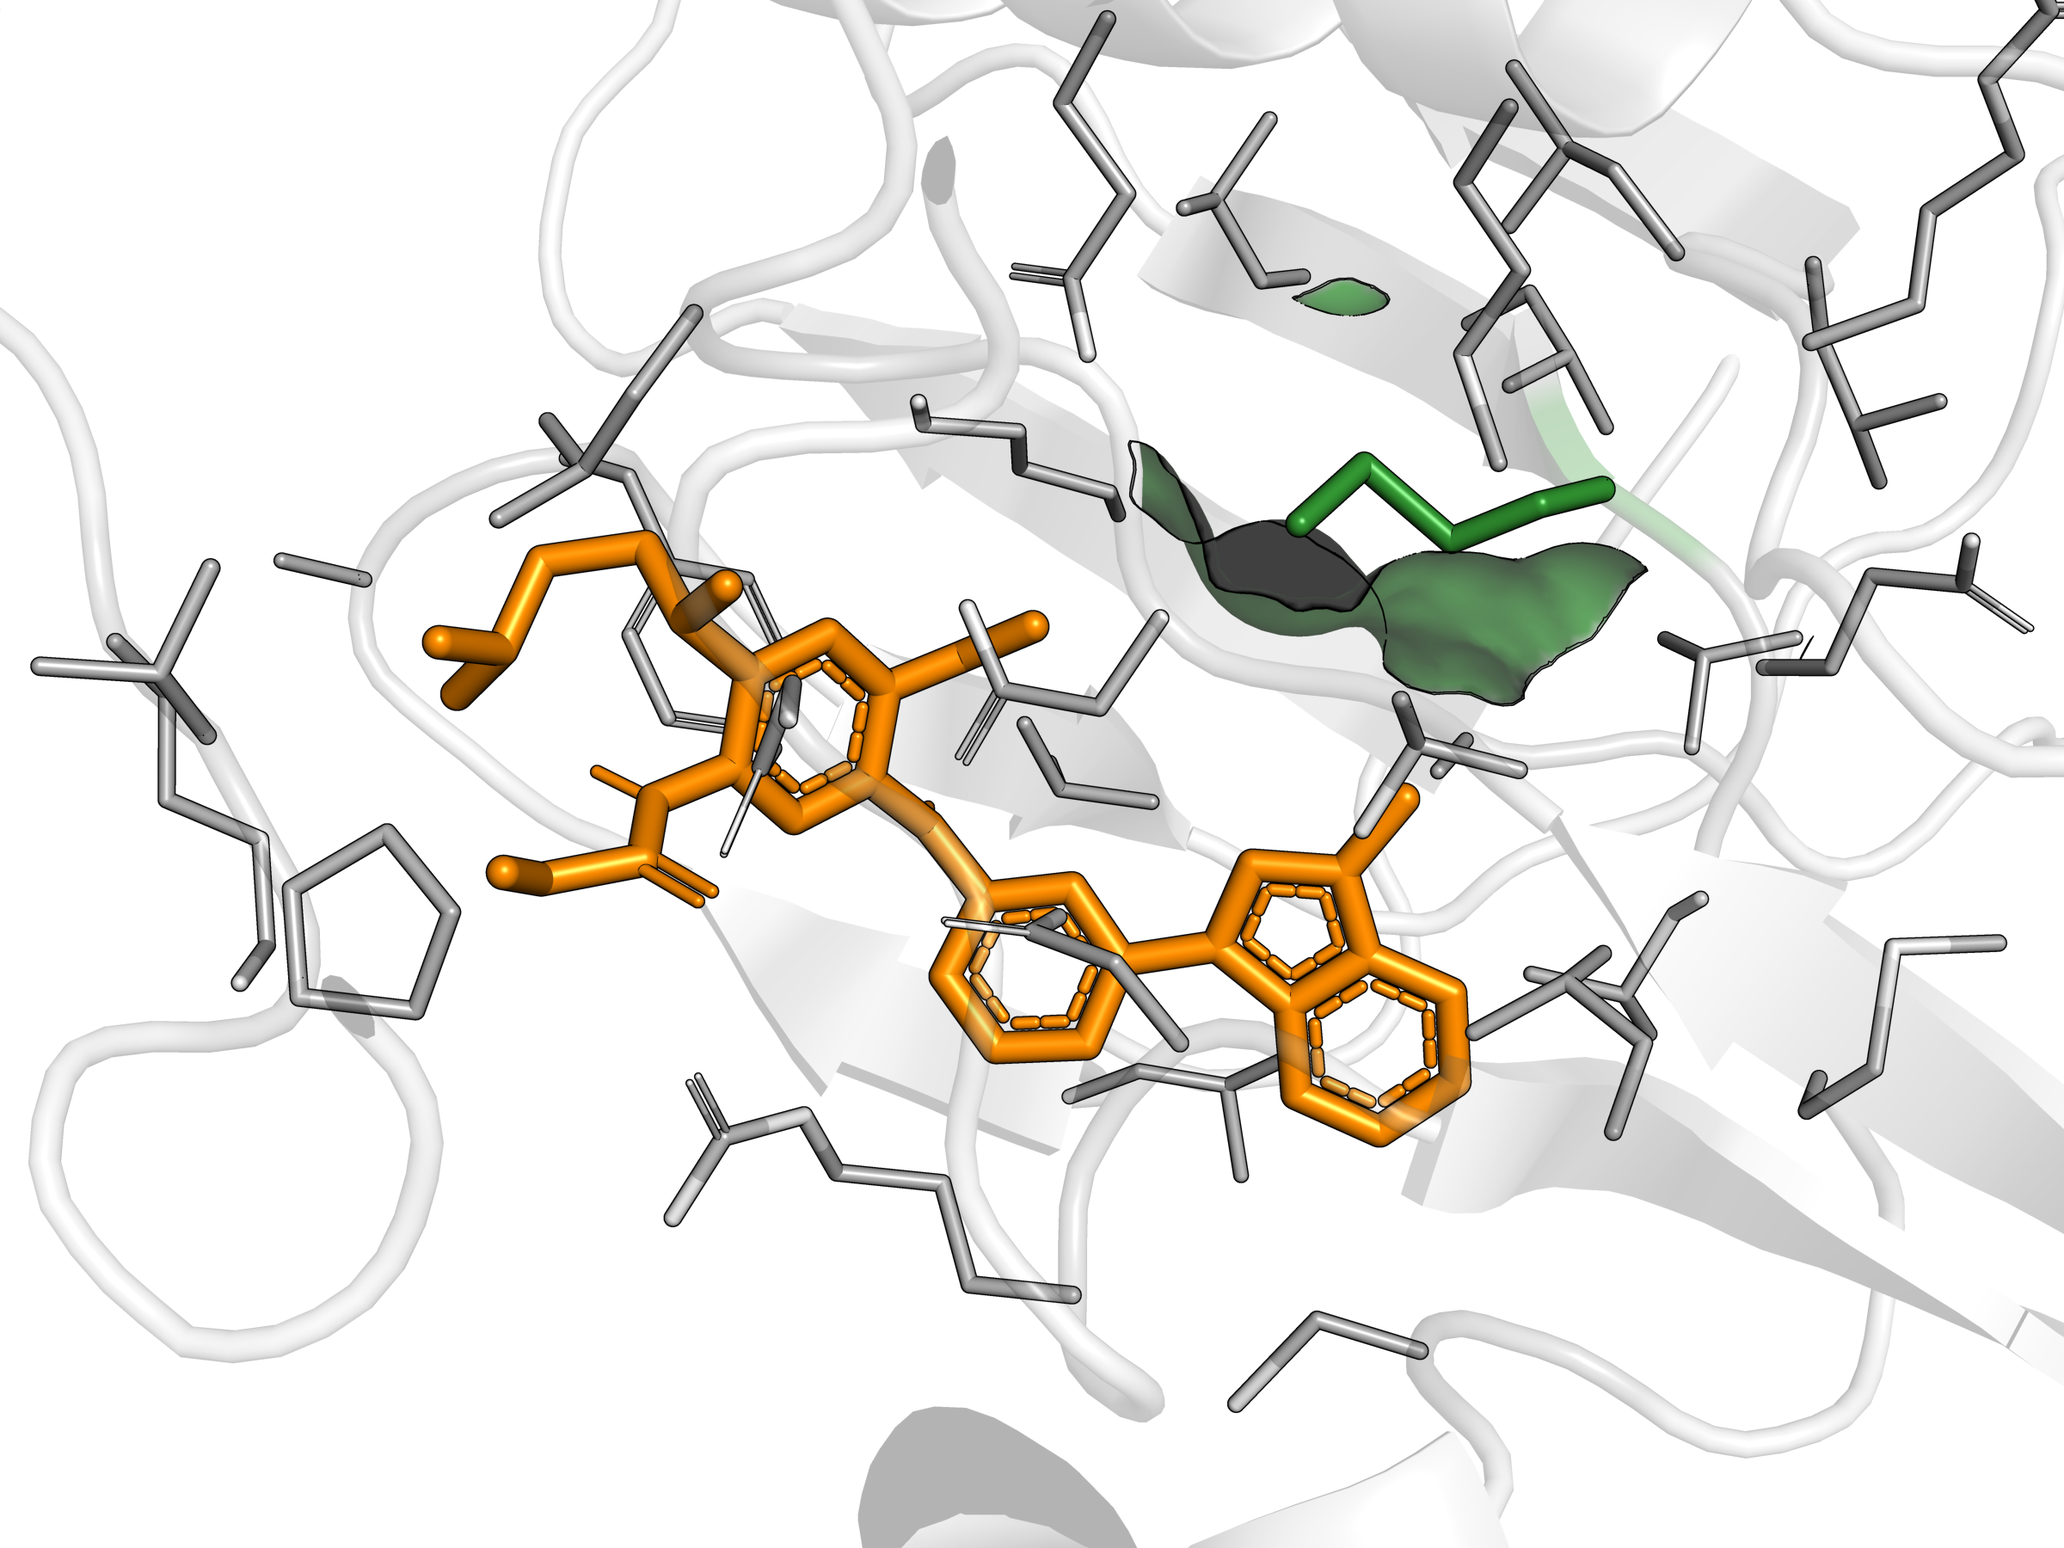
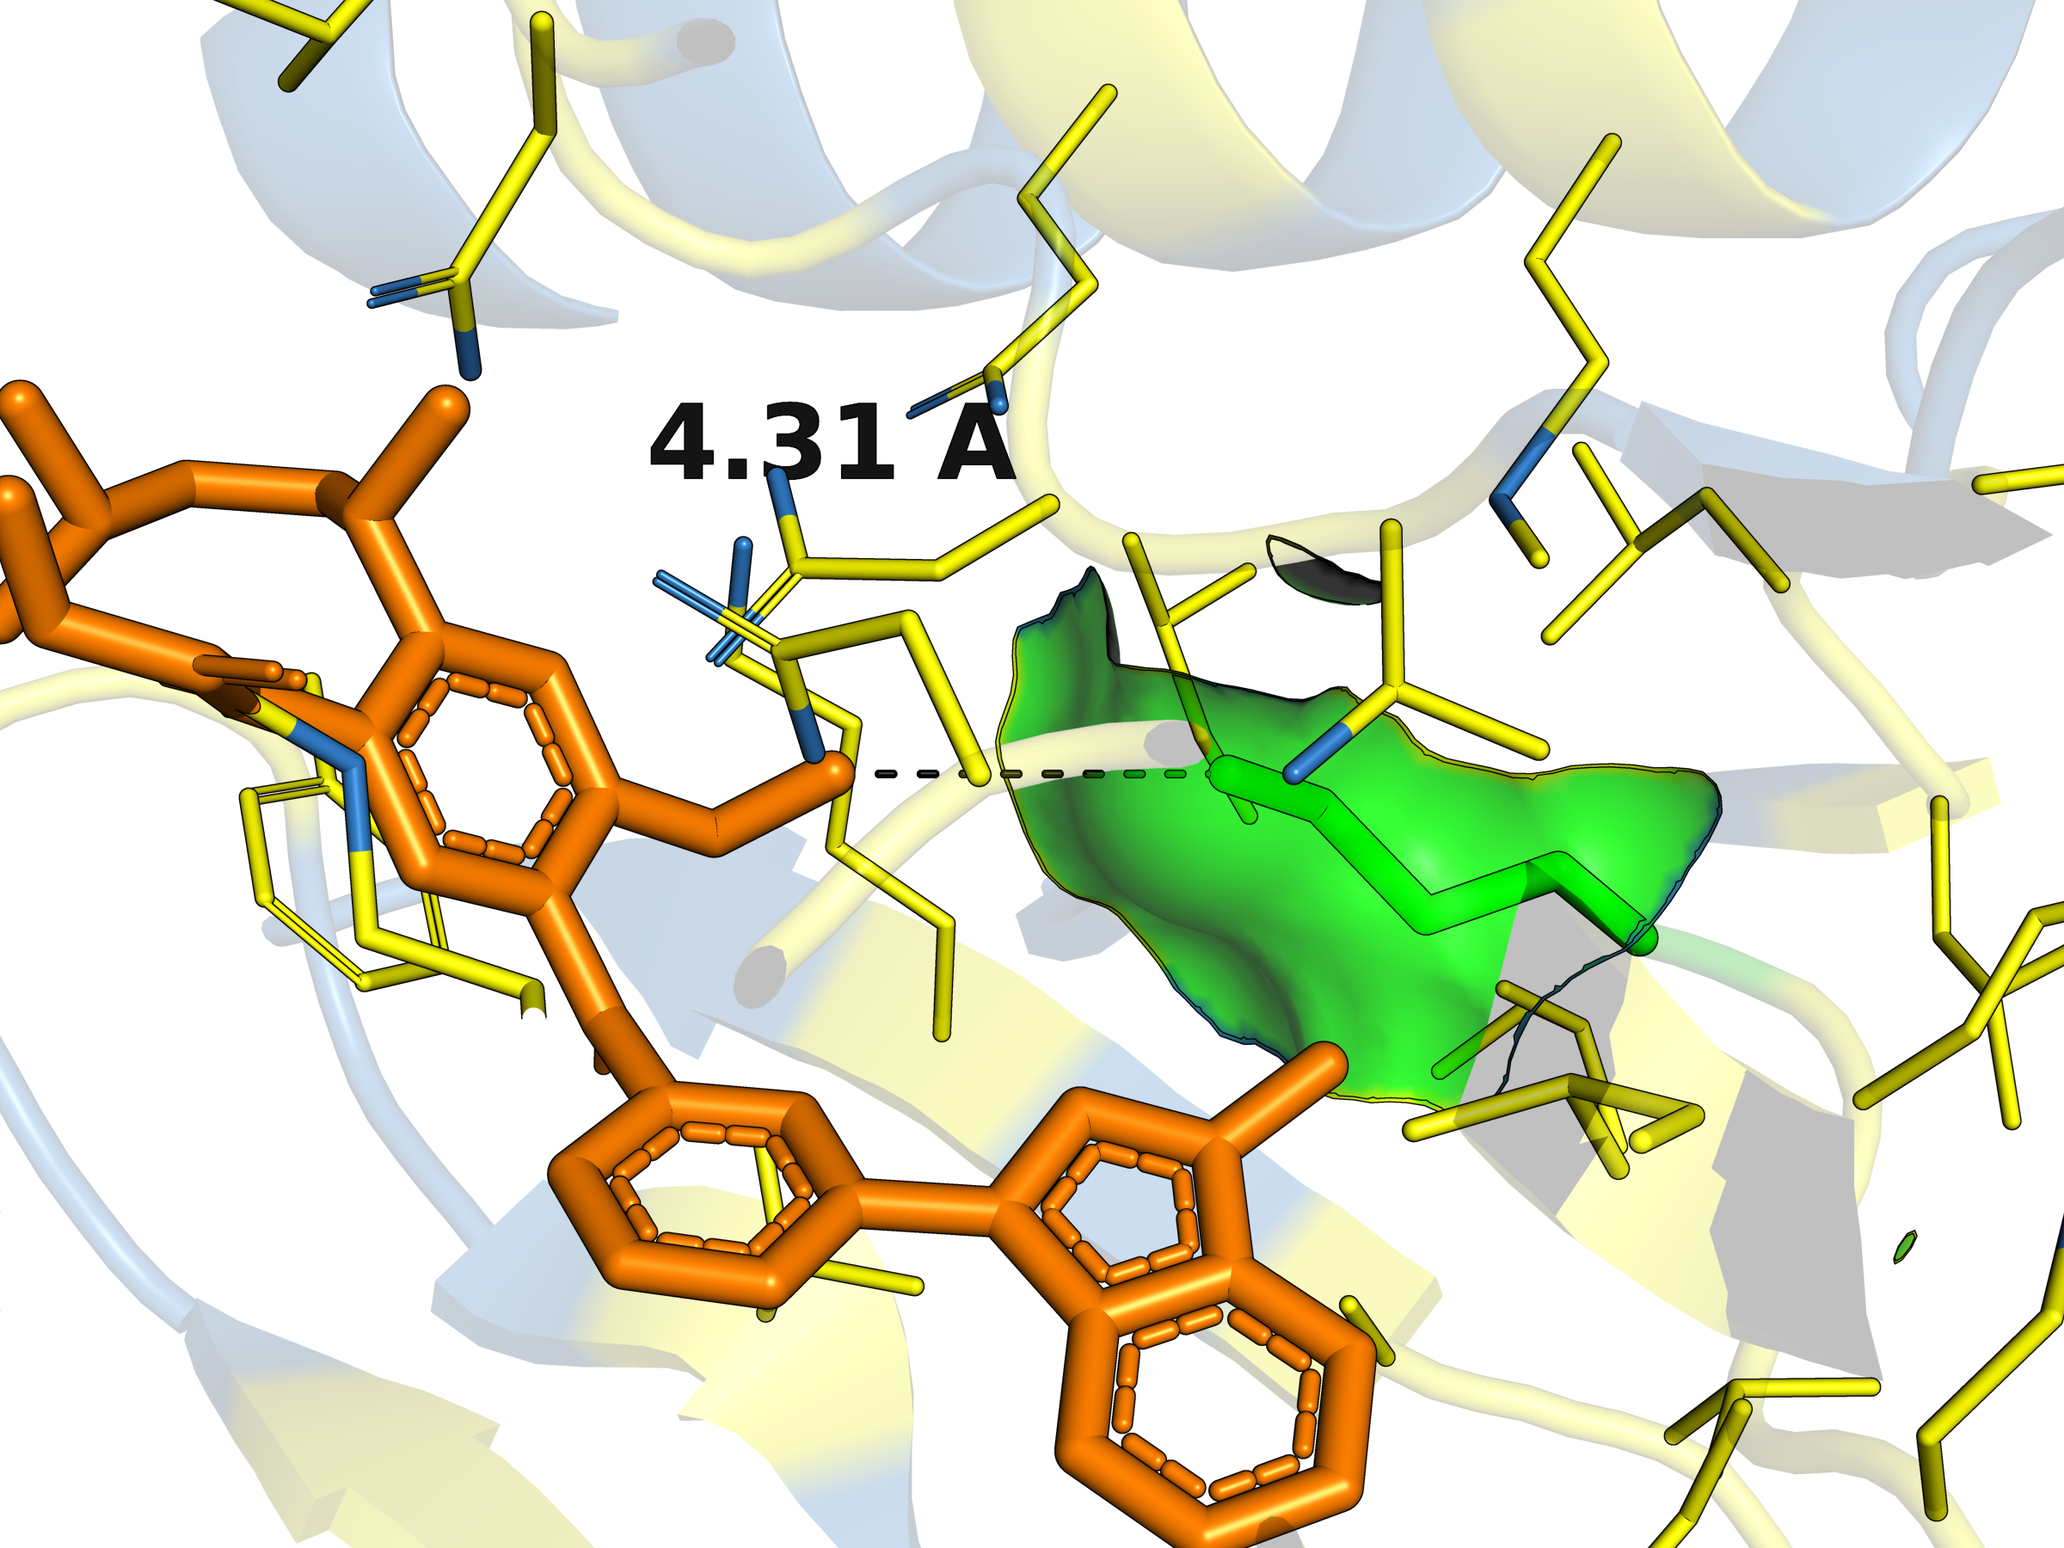
las fotos

diff --git a/scripts/generate_pymol_figures.py b/scripts/generate_pymol_figures.py
@@ -1,5 +1,4 @@
 #!/usr/bin/env python3
-# This is an abomination pls help
 """
 Automates PyMOL rendering for manuscript figures:
   - Figure 2A: T790M mutant complexed with Erlotinib showing steric collision
@@ -8,10 +7,12 @@ Automates PyMOL rendering for manuscript figures:
                accommodation of the M790 side chain by Osimertinib's flexible scaffold.
 """
 
+# For figure 2A, just use scaryThing.png, since it puts the affinity number more clean
 import sys
 from pathlib import Path
 
-# Ensure PyMOL Python module is available
+import numpy as np
+
 try:
     import pymol
     from pymol import cmd
@@ -22,9 +23,16 @@ except ImportError:
 OUTPUT_DIR = Path("results/figures")
 PLIP_DIR = Path("results/plip_results/t790m")
 
+# Distinct, high-contrast palette so nothing reads as "gray blending into gray"
+COLOR_CARTOON = "skyblue"       # protein backbone - clearly blue, not gray
+COLOR_POCKET = "yellow"         # nearby side chains for context - clearly yellow
+COLOR_M790_A = "red"            # mutated residue in fig 2A - solid red
+COLOR_M790_B = "green"          # mutated residue in fig 2B - solid green
+COLOR_LIGAND_A = "cyan"         # Erlotinib - bright cyan (distinct from red/yellow/blue)
+COLOR_LIGAND_B = "orange"       # Osimertinib - bright orange (distinct from green/yellow/blue)
+
 
 def find_pdb_file(drug_name):
-    """Locates the intermediate plipfixed PDB file for T790M and a given drug."""
     drug_dir = PLIP_DIR / drug_name
     if not drug_dir.exists():
         candidates = list(PLIP_DIR.glob(f"plipfixed.t790m_{drug_name}_complex_*.pdb"))
@@ -37,117 +45,211 @@ def find_pdb_file(drug_name):
     return candidates[0]
 
 
+def closest_atom_pair(sel1, sel2):
+    """Finds the single closest heavy-atom pair between two selections and
+    returns (distance_in_angstroms, atom1, atom2). This is the actual
+    measurement that matters for a 'steric clash' claim - '5 A between atom
+    centers' is NOT the same as atoms touching, since each atom has its own
+    ~1.5-1.8 A van der Waals radius. True clashes/close contacts are
+    typically in the ~3.0-3.8 A range between heavy atom centers."""
+    model1 = cmd.get_model(sel1)
+    model2 = cmd.get_model(sel2)
+    if not model1.atom or not model2.atom:
+        return None
+
+    coords1 = np.array([a.coord for a in model1.atom])
+    coords2 = np.array([a.coord for a in model2.atom])
+    diffs = coords1[:, None, :] - coords2[None, :, :]
+    dists = np.linalg.norm(diffs, axis=2)
+    i, j = np.unravel_index(np.argmin(dists), dists.shape)
+    return float(dists[i, j]), model1.atom[i], model2.atom[j]
+
+
 def setup_pymol_display():
-    """Configures global PyMOL aesthetic parameters for camera-ready rendering."""
     cmd.reinitialize()
     cmd.bg_color("white")
     cmd.set("ray_trace_mode", 1)
-    cmd.set("ray_shadows", 0)          # shadows tend to muddy tight close-ups
+    cmd.set("ray_shadows", 0)
     cmd.set("antialias", 2)
     cmd.set("stick_radius", 0.20)
     cmd.set("cartoon_side_chain_helper", 1)
     cmd.set("surface_quality", 2)
-    cmd.set("transparency_mode", 2)    # per-object transparency blends more predictably
-    cmd.set("depth_cue", 0)            # avoid fog washing out a tight close-up
-    cmd.set_color("darkorange", [1.0, 0.55, 0.0])  # not a built-in PyMOL color name
+    cmd.set("transparency_mode", 2)
+    cmd.set("depth_cue", 0)
+
+
+def render_pocket_figure(pdb_file, output_png, ligand_resn_list, m790_color, ligand_color, label,
+                          label_offset_mode="camera_up"):
+    """Shared rendering logic for both figures - camera locks onto the actual
+    M790<->ligand contact zone instead of the whole pocket, and every element
+    gets a visually distinct color.
+
+    label_offset_mode controls how the distance label is positioned:
+      - "camera_up": offset computed from the camera's actual up direction
+        after the final view is set. Adapts per-structure.
+      - "fixed": offset is a static (0, 2.5, 0) vector in the molecule's own
+        coordinate frame, independent of camera orientation.
+    """
+    print(f"[+] Rendering {label} using {pdb_file.name}...")
+    setup_pymol_display()
+
+    cmd.load(str(pdb_file), "complex")
+    obj = "complex"
+
+    resn_selector = " or ".join(f"resn {r}" for r in ligand_resn_list)
+    cmd.select("ligand", f"{obj} and ({resn_selector})")
+    cmd.select("m790", f"{obj} and resi 790")
+
+    if cmd.count_atoms("ligand") == 0:
+        print(f"  [!] Warning: no ligand atoms matched {ligand_resn_list} - check residue naming in the PDB.")
+    if cmd.count_atoms("m790") == 0:
+        print("  [!] Warning: no atoms matched resi 790 - check residue numbering in the PDB.")
+
+    # Measure the actual closest heavy-atom distance between M790 and the
+    # ligand - this is the real number behind a "clash" or "fit" claim, not
+    # a guess based on a loose 5 A cutoff.
+    result = closest_atom_pair("m790", "ligand")
+    if result is not None:
+        min_dist, atom_m790, atom_ligand = result
+        print(f"  [i] Closest heavy-atom contact: M790/{atom_m790.name} <-> "
+              f"{atom_ligand.resn}/{atom_ligand.name}  =  {min_dist:.2f} A")
+        if min_dist < 3.2:
+            print("  [i] This is tight enough to read as a genuine steric clash.")
+        elif min_dist < 4.2:
+            print("  [i] This is a close contact, but surfaces will show a small gap, not overlap.")
+        else:
+            print("  [i] This is NOT a close contact - the residue and ligand are not "
+                  "sterically interacting at this distance. Consider whether the "
+                  "'collision'/'accommodation' framing is supported by this structure.")
+
+        # Build a tight selection around that exact closest pair (with a small
+        # radius so we get a bit of surrounding atoms for context, not just
+        # two lone points) and center the camera on THAT, not a loose 5 A shell.
+        cmd.select("closest_m790", f"m790 and id {atom_m790.id}")
+        cmd.select("closest_ligand", f"ligand and id {atom_ligand.id}")
+        cmd.select("contact_m790", "m790 within 4.5 of ligand")
+        cmd.select("contact_ligand", "ligand within 4.5 of m790")
+        contact_atoms = cmd.count_atoms("contact_m790") + cmd.count_atoms("contact_ligand")
+    else:
+        min_dist = None
+        contact_atoms = 0
+        print("  [!] Could not measure distance - m790 or ligand selection is empty.")
+
+    # Background context residues, kept visually minimal
+    cmd.select("pocket", f"byres ({obj} within 5.0 of (ligand or m790)) and not m790")
+
+    cmd.hide("everything")
+
+    # Cartoon: distinct blue, very transparent so it reads as background only
+    cmd.show("cartoon", obj)
+    cmd.color(COLOR_CARTOON, obj)
+    cmd.set("cartoon_transparency", 0.75, obj)
+
+    # Pocket context residues: distinct yellow, thin sticks, no surface
+    cmd.show("sticks", "pocket")
+    cmd.color(COLOR_POCKET, "pocket and elem C")
+    cmd.set("stick_radius", 0.10, "pocket")
+
+    # M790: solid color + solid-ish surface so its actual volume is visible
+    cmd.show("sticks", "m790")
+    cmd.color(m790_color, "m790 and elem C")
+    cmd.show("surface", "m790")
+    cmd.color(m790_color, "m790")
+    cmd.set("transparency", 0.2, "m790")
+
+    # Ligand: solid color + surface, so overlap (collision) or gap
+    # (accommodation) against the M790 surface is visually obvious
+    cmd.show("sticks", "ligand")
+    cmd.color(ligand_color, "ligand and elem C")
+    cmd.set("stick_radius", 0.24, "ligand")
+    cmd.show("surface", "ligand")
+    cmd.color(ligand_color, "ligand")
+    cmd.set("transparency", 0.45, "ligand")
+
+    # Draw the actual measured distance as a dashed line with an Angstrom
+    # label directly on the figure. For a modest-but-real difference like
+    # 3.67 A vs 4.31 A, this is more honest and more convincing than
+    # relying on surface overlap alone - the reader sees the real number.
+    # NOTE: this must run AFTER hide("everything") / the show() calls above,
+    # or hide("everything") wipes the dash/label out before it ever renders.
+    if min_dist is not None:
+        cmd.distance("contact_dist", "closest_m790", "closest_ligand")
+        cmd.hide("labels", "contact_dist")  # hide default atom-pair label
+        cmd.color("black", "contact_dist")
+        cmd.set("dash_width", 4, "contact_dist")
+        cmd.set("dash_gap", 0.3, "contact_dist")
+        cmd.set("dash_radius", 0.04, "contact_dist")
+
+    # Camera: center precisely on the single closest atom pair (the actual
+    # point of contact/near-contact) rather than a loose shell, so the
+    # figure isn't just "in the neighborhood" of the interaction.
+    if min_dist is not None:
+        cmd.orient("closest_m790 or closest_ligand")
+        cmd.zoom("closest_m790 or closest_ligand", buffer=6.0)
+    elif contact_atoms > 0:
+        cmd.orient("contact_m790 or contact_ligand")
+        cmd.zoom("contact_m790 or contact_ligand", buffer=3.0)
+    else:
+        print("  [!] No contact atoms found - falling back to a wider view. "
+              "Check chain/residue naming.")
+        cmd.orient("m790 or ligand")
+        cmd.zoom("m790 or ligand", buffer=4.0)
+
+    cmd.turn("y", 15)
+
+    # Place the distance label. Two modes are supported (see docstring):
+    # "camera_up" adapts to each structure's final camera orientation;
+    # "fixed" uses a static molecule-space offset regardless of camera.
+    if min_dist is not None:
+        ligand_coord = np.array(cmd.get_atom_coords("closest_ligand"))
+
+        if label_offset_mode == "fixed":
+            anchor_pos = ligand_coord + np.array([0.0, 2.5, 0.0])
+        else:  # "camera_up"
+            view = cmd.get_view()
+            rot = view[0:9]  # 3x3 model->camera rotation, row-major
+            # Model-space direction that maps to camera-space "up" (0,1,0) is
+            # the second COLUMN of this row-major matrix: (rot[1], rot[4], rot[7])
+            up = np.array([rot[1], rot[4], rot[7]])
+            norm = np.linalg.norm(up)
+            if norm > 0:
+                up = up / norm
+            anchor_pos = ligand_coord + up * 3.5
+
+        cmd.pseudoatom("dist_label_anchor", pos=list(anchor_pos))
+        cmd.hide("everything", "dist_label_anchor")
+        cmd.set("label_size", 32)
+        cmd.set("label_color", "black")
+        cmd.set("label_outline_color", "white")
+        cmd.set("label_font_id", 7)  # bold sans-serif, readable at print size
+        cmd.label("dist_label_anchor", f'"{min_dist:.2f} A"')
+        cmd.show("labels", "dist_label_anchor")
+
+    cmd.ray(2400, 1800)
+    cmd.png(str(output_png), dpi=300)
+    print(f"  [Saved] {label} -> {output_png}")
 
 
 def render_figure_2a(erlotinib_pdb, output_png):
-    """Figure 2A: M790 side chain visibly clashing into Erlotinib's aniline ring."""
-    print(f"[+] Rendering Figure 2A using {erlotinib_pdb.name}...")
-    setup_pymol_display()
-
-    cmd.load(str(erlotinib_pdb), "t790m_erlotinib")
-    obj = "t790m_erlotinib"
-
-    cmd.select("ligand", f"{obj} and (resn UNK or resn LIG or resn ERL)")
-    cmd.select("m790", f"{obj} and resi 790")
-    # Just the handful of residues immediately ringing the contact zone -
-    # enough for context, not enough to bury the clash visually.
-    cmd.select("pocket", f"byres ({obj} within 5.0 of (ligand or m790)) and not m790")
-
-    cmd.hide("everything")
-
-    # Faint cartoon for orientation only - kept very light so it doesn't compete
-    cmd.show("cartoon", obj)
-    cmd.color("gray90", obj)
-    cmd.set("cartoon_transparency", 0.7, obj)
-
-    # Nearby pocket residues: thin, muted, background context
-    cmd.show("sticks", "pocket")
-    cmd.color("gray70", "pocket and elem C")
-    cmd.set("stick_radius", 0.12, "pocket")
-
-    # M790: the star of the clash - solid sticks + solid surface
-    cmd.show("sticks", "m790")
-    cmd.color("firebrick", "m790 and elem C")
-    cmd.show("surface", "m790")
-    cmd.color("firebrick", "m790")
-    cmd.set("transparency", 0.25, "m790")
-
-    # Ligand: sticks + its own surface, so the two surfaces visibly overlap/press together
-    cmd.show("sticks", "ligand")
-    cmd.color("teal", "ligand and elem C")
-    cmd.set("stick_radius", 0.24, "ligand")
-    cmd.show("surface", "ligand")
-    cmd.color("teal", "ligand")
-    cmd.set("transparency", 0.45, "ligand")
-
-    # Tight framing directly on the clash interface, not the whole pocket
-    cmd.orient("m790 or ligand")
-    cmd.zoom("m790 or ligand", buffer=1.5)
-    cmd.turn("y", 15)  # small offset angle so both surfaces read as 3D, not flat overlap
-
-    cmd.ray(2400, 1800)
-    cmd.png(str(output_png), dpi=300)
-    print(f"  [Saved] Figure 2A -> {output_png}")
+    render_pocket_figure(
+        erlotinib_pdb, output_png,
+        ligand_resn_list=["UNK", "LIG", "ERL"],
+        m790_color=COLOR_M790_A,
+        ligand_color=COLOR_LIGAND_A,
+        label="Figure 2A (Erlotinib collision)",
+        label_offset_mode="fixed",  # reverted per feedback: this placement was clean for this structure
+    )
 
 
 def render_figure_2b(osimertinib_pdb, output_png):
-    """Figure 2B: M790 comfortably accommodated by Osimertinib's flexible scaffold."""
-    print(f"[+] Rendering Figure 2B using {osimertinib_pdb.name}...")
-    setup_pymol_display()
-
-    cmd.load(str(osimertinib_pdb), "t790m_osimertinib")
-    obj = "t790m_osimertinib"
-
-    cmd.select("ligand", f"{obj} and (resn UNK or resn LIG or resn OSI)")
-    cmd.select("m790", f"{obj} and resi 790")
-    cmd.select("pocket", f"byres ({obj} within 5.0 of (ligand or m790)) and not m790")
-
-    cmd.hide("everything")
-
-    cmd.show("cartoon", obj)
-    cmd.color("gray90", obj)
-    cmd.set("cartoon_transparency", 0.7, obj)
-
-    cmd.show("sticks", "pocket")
-    cmd.color("gray70", "pocket and elem C")
-    cmd.set("stick_radius", 0.12, "pocket")
-
-    # M790: same solid treatment as 2A so the two figures are visually comparable
-    cmd.show("sticks", "m790")
-    cmd.color("forest", "m790 and elem C")
-    cmd.show("surface", "m790")
-    cmd.color("forest", "m790")
-    cmd.set("transparency", 0.25, "m790")
-
-    # Ligand surface too - here the point is a visible GAP/fit around the scaffold,
-    # not overlap, so keep it a bit more transparent to let the gap read clearly
-    cmd.show("sticks", "ligand")
-    cmd.color("darkorange", "ligand and elem C")
-    cmd.set("stick_radius", 0.24, "ligand")
-    cmd.show("surface", "ligand")
-    cmd.color("darkorange", "ligand")
-    cmd.set("transparency", 0.55, "ligand")
-
-    cmd.orient("m790 or ligand")
-    cmd.zoom("m790 or ligand", buffer=1.5)
-    cmd.turn("y", 15)  # same offset angle as 2A for a matched camera pair
-
-    cmd.ray(2400, 1800)
-    cmd.png(str(output_png), dpi=300)
-    print(f"  [Saved] Figure 2B -> {output_png}")
+    render_pocket_figure(
+        osimertinib_pdb, output_png,
+        ligand_resn_list=["UNK", "LIG", "OSI"],
+        m790_color=COLOR_M790_B,
+        ligand_color=COLOR_LIGAND_B,
+        label="Figure 2B (Osimertinib accommodation)",
+        label_offset_mode="camera_up",  # kept as-is - working well
+    )
 
 
 def main():
